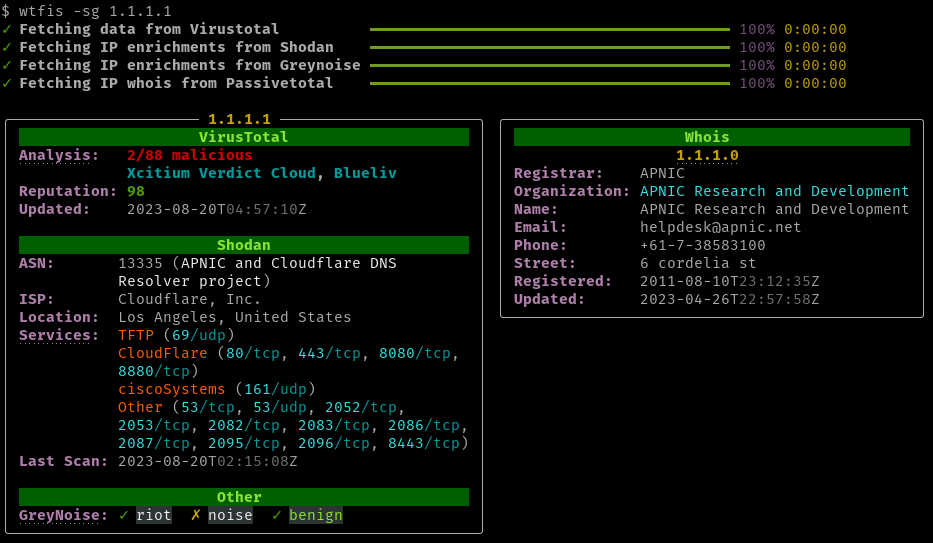
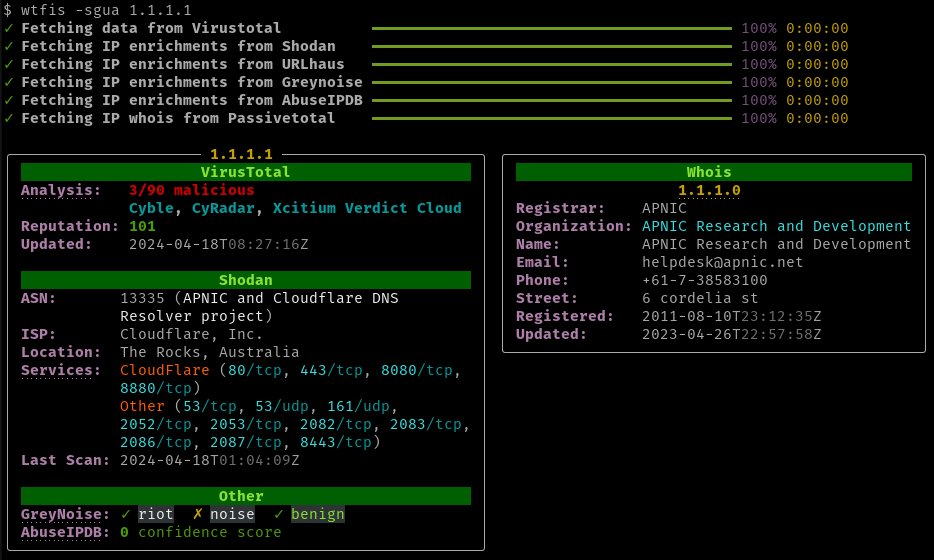
Update AbuseIPDB documentation (#75)

Changed region(s): [[0.0, 0.0, 0.9946, 1.0], [0.9636, 0.5599, 0.9946, 0.5893]]

diff --git a/README.md b/README.md
@@ -30,6 +30,7 @@ The project name is a play on "whois".
 | [Shodan](https://shodan.io) | IP address | No | [No](https://account.shodan.io/billing) |
 | [Greynoise](https://greynoise.io) | IP address | No | [Yes](https://www.greynoise.io/plans/community)
 | [URLhaus](https://urlhaus.abuse.ch/) | All | No | Yes (no signup)
+| [AbuseIPDB](https://www.abuseipdb.com/)| IP address | No | [Yes](https://www.abuseipdb.com/register?plan=free)
 
 ### Virustotal
 
@@ -71,7 +72,7 @@ As above, IP2Whois is recommended over Virustotal if a Passivetotal account cann
 
 ### IPWhois
 
-Default enrichment for IP addresses. Retrieves:
+Default Geolocation and ASN lookup source for IP addresses. Retrieves:
 
 * ASN, Org, ISP and Geolocation
 
@@ -79,7 +80,7 @@ IPWhois should not be confused with IP2Whois, which provides domain Whois data.
 
 ### Shodan
 
-Alternative IP address enrichment source. GETs data from the `/shodan/host/{ip}` endpoint (see [doc](https://developer.shodan.io/api)). For each IP, retrieves:
+GETs data from the `/shodan/host/{ip}` endpoint (see [doc](https://developer.shodan.io/api)). For each IP, retrieves:
 
 * ASN, Org, ISP and Geolocation
 * List of open ports and services
@@ -88,7 +89,7 @@ Alternative IP address enrichment source. GETs data from the `/shodan/host/{ip}`
 
 ### Greynoise
 
-Supplementary IP address enrichment source. Using its [community API](https://docs.greynoise.io/docs/using-the-greynoise-community-api), wtfis will show whether an IP is in one of Greynoise's datasets:
+Using Greynoise's [community API](https://docs.greynoise.io/docs/using-the-greynoise-community-api), wtfis will show whether an IP is in one of Greynoise's datasets:
 
 * **Noise**: IP has been seen regularly scanning the Internet
 * **RIOT**: IP belongs to a common business application (e.g. Microsoft O365, Google Workspace, Slack)
@@ -105,6 +106,13 @@ In addition, the API also returns Greynoise's [classification](https://docs.grey
 * Whether the hostname or IP is currently in the [DNSBL](https://www.dnsbl.info/) and [SURBL](https://www.surbl.org/) public blocklists
 * All tags that have been assigned to the URL throughout its history in the URLhaus database
 
+### AbuseIPDB
+
+[AbuseIPDB](https://www.abuseipdb.com/) is a crowd-sourced database of reported malicious IP addresses. Through its API wtfis shows:
+
+* Abuse confidence score (0-100)
+* Number of reports
+
 
 ## Install
 
@@ -115,6 +123,7 @@ $ pip install wtfis
 To install via `conda` (from conda-forge), see [wtfis-feedstock](https://github.com/conda-forge/wtfis-feedstock).
 
 To install via [`brew`](https://brew.sh):
+
 ```
 brew install wtfis
 ```
@@ -129,6 +138,7 @@ wtfis uses these environment variables:
 * `IP2WHOIS_API_KEY` (optional) - IP2WHOIS API key
 * `SHODAN_API_KEY` (optional) - Shodan API key
 * `GREYNOISE_API_KEY` (optional) - Greynoise API key
+* `ABUSEIPDB_API_KEY` (optional) - AbuseIPDB API key
 * `WTFIS_DEFAULTS` (optional) - Default arguments
 
 Set these using your own method.
@@ -139,17 +149,18 @@ Alternatively, create a file in your home directory `~/.env.wtfis` with the abov
 ## Usage
 
 ```
-usage: wtfis [-h] [-m N] [-s] [-g] [-u] [-n] [-1] [-V] entity
+usage: wtfis [-h] [-m N] [-s] [-g] [-a] [-u] [-n] [-1] [-V] entity
 
 positional arguments:
   entity                Hostname, domain or IP
 
-options:
+optional arguments:
   -h, --help            show this help message and exit
   -m N, --max-resolutions N
                         Maximum number of resolutions to show (default: 3)
   -s, --use-shodan      Use Shodan to enrich IPs
   -g, --use-greynoise   Enable Greynoise for IPs
+  -a, --use-abuseipdb   Enable AbuseIPDB for IPs
   -u, --use-urlhaus     Enable URLhaus for IPs and domains
   -n, --no-color        Show output without colors
   -1, --one-column      Display results in one column
@@ -168,7 +179,7 @@ Defanged input is accepted (e.g. `api[.]google[.]com`).
 
 If supported by the terminal, the `Analysis` field and (if using PT) headings in the whois panel are clickable hyperlinks that point to the appropriate pages on the VT or PT website.
 
-### Shodan enrichment
+### Shodan
 
 Shodan can be used to enrich the IP addresses (instead of IPWhois). Invoke with the `-s` or `--use-shodan` flag.
 
@@ -176,7 +187,7 @@ Shodan can be used to enrich the IP addresses (instead of IPWhois). Invoke with 
 
 If supported by the terminal, the `Services` field is a clickable hyperlink that takes you to the Shodan web interface.
 
-### Greynoise enrichment
+### Greynoise
 
 To enable Greynoise, invoke with the `-g` or `--use-greynoise` flag. Because the API quota is quite low (50 requests per week as of March 2023), this lookup is off by default.
 
@@ -184,7 +195,7 @@ To enable Greynoise, invoke with the `-g` or `--use-greynoise` flag. Because the
 
 The `GreyNoise` field name is also a hyperlink (if terminal-supported) that points to the IP entry in the Greynoise web interface, where more context is shown.
 
-### URLhaus enrichment
+### URLhaus
 
 Use the `-u` or `--use-urlhaus` flag to enable URLhaus enrichment for hostnames, domains and IPs.
 
@@ -192,11 +203,11 @@ Use the `-u` or `--use-urlhaus` flag to enable URLhaus enrichment for hostnames,
 
 The `Malware URLs` field name is a hyperlink (if terminal-supported) that takes you to the specific URLhaus database page for your query.
 
-### AbuseIPDB enrichment
+### AbuseIPDB
 
 Use the `-a` or `--use-abuseipdb` flag to enable AbuseIPDB enrichment for hostnames, domains and IPs.
 
-![image](https://github.com/zbalkan/wtfis/assets/39981909/0d48cfe4-7a99-47ae-980f-47839f4f0a96)
+![](https://github.com/pirxthepilot/wtfis/blob/main/imgs/example-abuseipdb.png?raw=true)
 
 The `AbuseIPDB` field name is a hyperlink (if terminal-supported) that takes you to the specific AbuseIPDB database page for your query.
 
